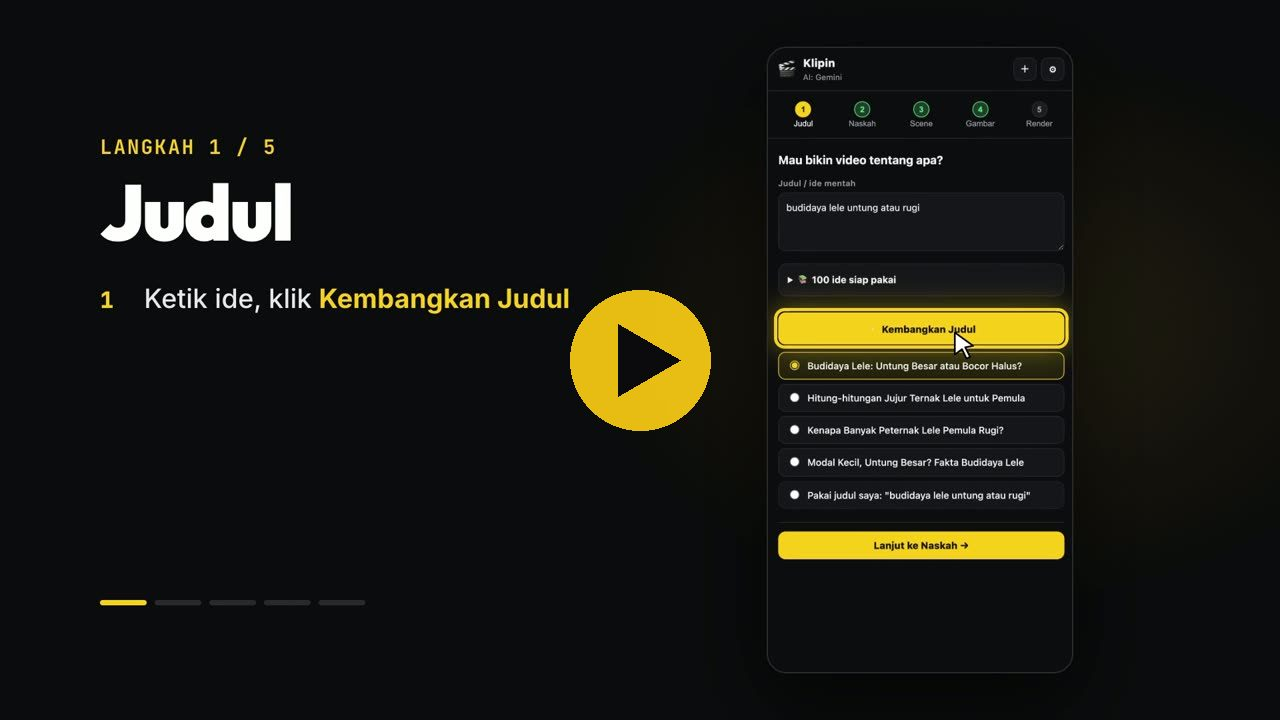
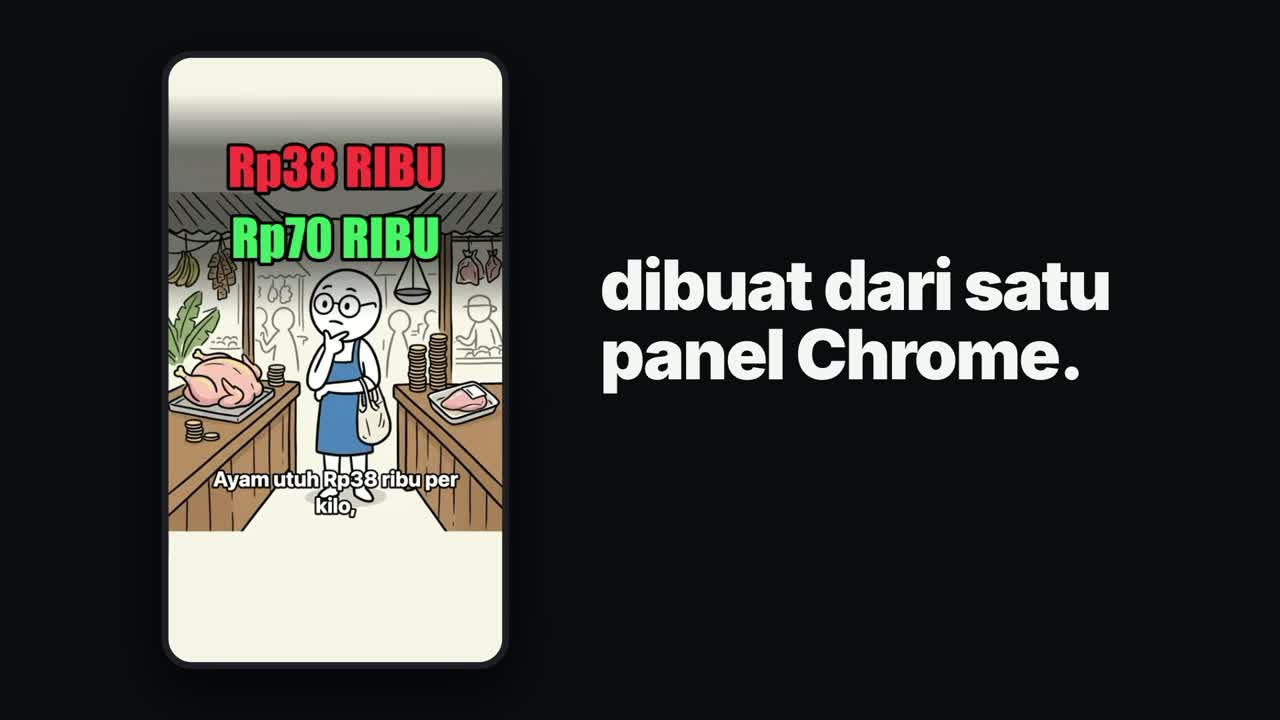
1.8.4: video tutorial baru (versi 1.8), tombol Usulkan di langkah Render tidak lagi menekan kolom teks
Claude-Session: https://claude.ai/code/session_01WMwEexnjZhHBaqsyheFZic

diff --git a/sidepanel.html b/sidepanel.html
@@ -238,7 +238,7 @@
       <div id="hookBox">
         <div class="row">
           <input type="text" id="hookText" placeholder="Kosongkan = diusulkan AI saat render. Dua sisi: Rp100 RIBU | Rp60 RIBU" />
-          <button class="btn" id="hookSuggestBtn" style="flex:none">✨ Usulkan</button>
+          <button class="btn fit" id="hookSuggestBtn">✨ Usulkan</button>
         </div>
         <p class="hint">Frame pertama yang dilihat orang saat menggulir. Ambil angka atau kontras inti dari kalimat pembuka.</p>
       </div>
@@ -246,7 +246,7 @@
       <div id="calloutBox">
         <div class="label-row">
           <span class="hint">Satu baris per scene: <code>nomor scene: teks</code>. Kosongkan = dibuat AI saat render.</span>
-          <button class="btn" id="calloutSuggestBtn" style="flex:none">✨ Usulkan</button>
+          <button class="btn fit" id="calloutSuggestBtn">✨ Usulkan</button>
         </div>
         <textarea id="calloutText" rows="4" placeholder="3: Modal Rp25 JT&#10;5: Pakan −Rp7,2 JT&#10;8: Rp100 RB → Rp60 RB"></textarea>
       </div>

diff --git a/sidepanel.css b/sidepanel.css
@@ -87,6 +87,7 @@ input[type=range] { width: 100%; accent-color: var(--accent); }
 .btn.danger { background: #3a1616; border-color: var(--err); color: #fecaca; }
 .btn.ghost { background: transparent; }
 .btn.small { padding: 7px 10px; font-size: 11.5px; }
+.btn.fit { width: auto; flex: none; margin-top: 0; white-space: nowrap; } /* tombol kecil di samping kolom isian */
 .btn.big { padding: 14px; font-size: 14px; }
 .link { background: none; border: 0; color: var(--accent); cursor: pointer; font: 600 11px inherit; font-family: inherit; }
 

diff --git a/README.md b/README.md
@@ -3,11 +3,11 @@
 Judul → naskah → suara → scene → gambar otomatis di Google Flow → render MP4, semua dari side panel Chrome.
 Gratis & open source (MIT). Tidak ada server: semua proses (potong jeda, sinkronisasi, render video) berjalan di browser kamu.
 
-## Tutorial video (1 menit)
-[![Tonton tutorial Klipin](docs/tutorial-thumb.jpg)](https://github.com/wildanlsfs/klipin/releases/download/v1.3.1/klipin-tutorial.mp4)
+## Tutorial video (1,5 menit)
+[![Tonton tutorial Klipin](docs/tutorial-thumb.jpg)](https://github.com/wildanlsfs/klipin/releases/download/v1.8.4/klipin-tutorial.mp4)
 
-Klik gambar di atas untuk menonton / download video tutorial (MP4, 66 detik). Video ini dibuat di versi 1.3, jadi tampilannya
-sedikit berbeda; urutan langkahnya masih sama. Fitur baru dijelaskan di bagian **Alur** di bawah.
+Klik gambar di atas untuk menonton / download video tutorial (MP4, 85 detik, versi 1.8): pasang dari Releases,
+isi API key, lalu 6 langkah sampai video jadi dan siap diunggah ke YouTube.
 
 ## Pasang
 1. Download `klipin-<versi>.zip` dari [Releases](https://github.com/wildanlsfs/klipin/releases/latest)
